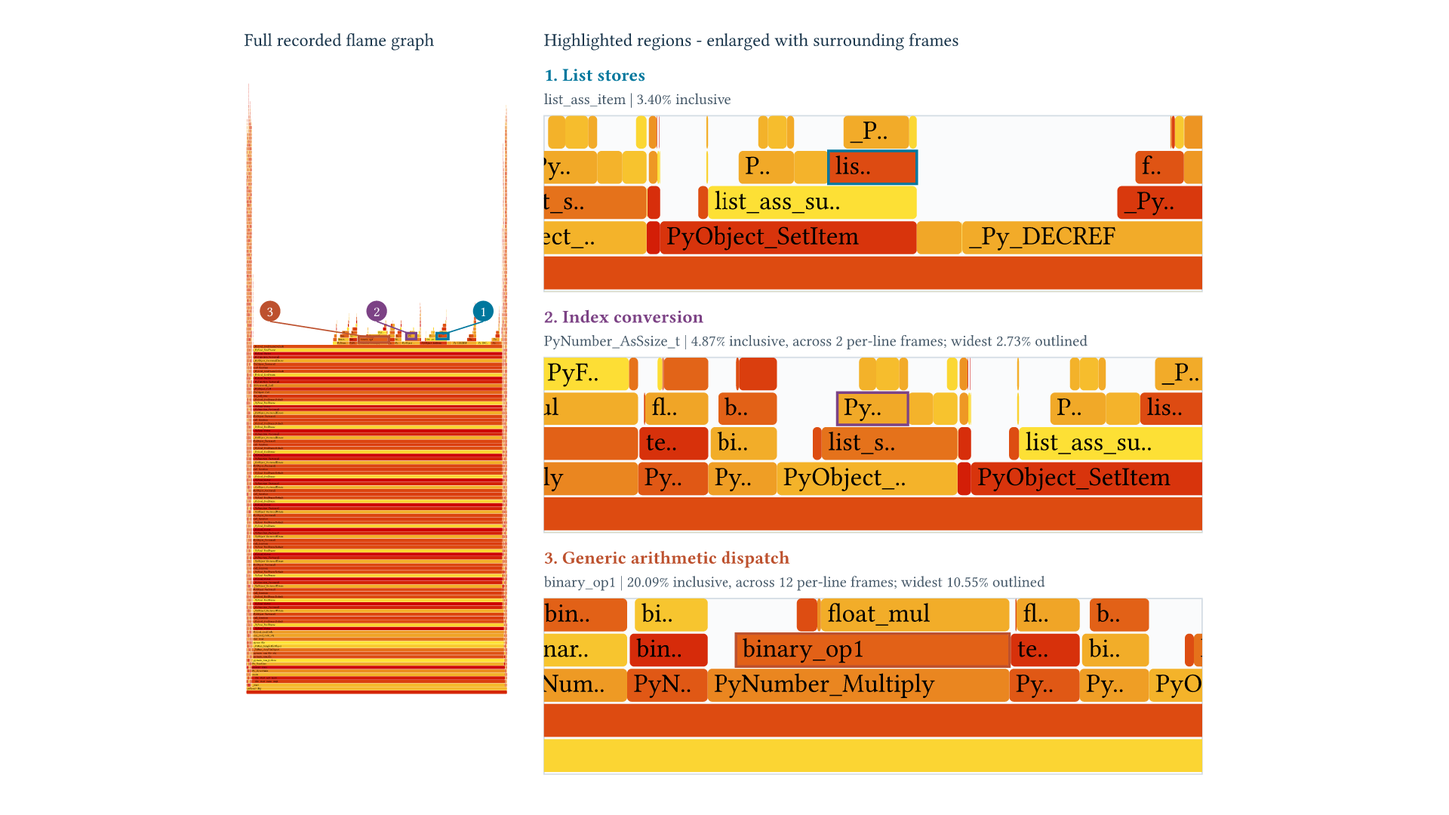
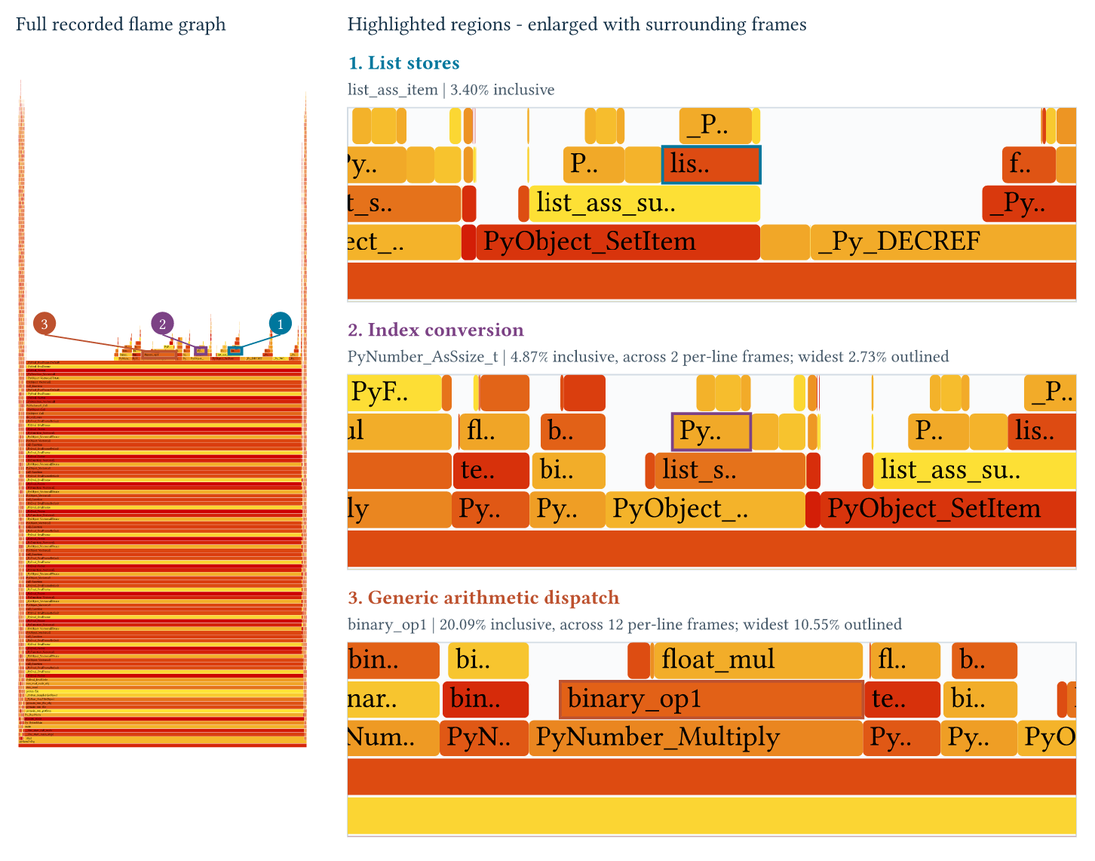
presentation: batch 1 reviewed; figures re-rendered without padding, flame-graph slide editions (overview + headline panel), 00e master fix (26 pt two-line titles, full-width body), correction prompts for S02-S04
Claude-Session: https://claude.ai/code/session_01P6Bd82YhqT2EwKyP63SPhX

diff --git a/tools/presentation/gen_prompts.py b/tools/presentation/gen_prompts.py
@@ -160,6 +160,25 @@ Done when: Slide → Apply layout lists the eight layouts, and each stage layout
 highlighted. Reply with one screenshot of the layout picker showing all eight, then the STATUS block
 for 00d with `deviations` listing the eight layout names as they appear.
 """,
+    "00e_title_size.md": f"""# Setup correction 00e: two-line titles, full-width figures
+
+Batch 1 showed that claim titles wrap to three lines at 32 pt on the 10 x 5.63 in page and leave
+too little room for the figure. Fix it once, on the layouts, so every slide inherits it.
+
+1. View → Theme builder. On EACH of the five "Title and body · <stage>" layouts and on the
+   Section header layout: set the title placeholder to 26 pt, left-aligned, dark grey #222222,
+   box from y = 0.25 in to y = 1.35 in (two lines of 26 pt fit; a third must not be needed).
+   Turn OFF autofit/shrink on the title box (Format options → Text fitting → Do not autofit).
+2. On the same layouts: the body placeholder spans x = 0.4 in to 9.6 in and y = 1.5 in to 5.0 in.
+   The footer tracker stays where it is (bottom 0.3 in); the slide number stays bottom-right.
+3. Close the theme builder. Check slides 2 to 5: their titles must now be at most two lines. If any
+   title still wraps to three lines, report it under deviations with the slide number; do not
+   edit the title text.
+
+Done when: the six layouts have the 26 pt two-line title box and the 9.2 x 3.5 in body box, and
+slides 2 to 5 show two-line titles. Reply with a screenshot of slide 5 and the STATUS block for 00e,
+listing under deviations any slide whose title still needs three lines.
+""",
     "00c_images.md": f"""# Setup 3 of 4: images
 
 The figures live on this laptop at:
@@ -214,8 +233,10 @@ Done when: title and the five lines match exactly and nothing overflows. Reply w
 then the STATUS block for {s.id} (expected: position 1, body title-lines {len(lines)}, tracker none).
 """
     if visual.startswith("assets/"):
-        body = (f"Body: Insert → Image → Upload from computer → `{ASSETS_WIN}\\{visual.split('/', 1)[1]}`.\n"
-                "Fit it inside the body box, keep aspect ratio, centre it. No caption, no border.")
+        body = (f"Body: insert the image `{ASSETS_WIN}\\{visual.split('/', 1)[1]}` with your direct upload tool.\n"
+                "Size it to fill the body box: width 9.2 in, or height 3.5 in if that binds first, keeping the\n"
+                "aspect ratio; place it at x = 0.4 in, y = 1.5 in and centre it horizontally in the body box.\n"
+                "It must not overlap the title or the footer tracker. No caption, no border, no crop.")
     elif visual == "table" and s.table:
         body = ("Body: insert this table exactly (Insert → Table), header row bold with #1F4E79 fill and "
                 "white text, body rows 16 pt, columns auto-fit, no other formatting:\n\n" + s.table)
@@ -254,14 +275,44 @@ notes_set yes, tracker {stage} via layout).
 """
 
 
+def render_fix(s: Slide, pos: int) -> str:
+    visual = s.fields.get("visual", "")
+    fname = visual.split("/", 1)[1] if visual.startswith("assets/") else ""
+    return f"""# Correction for slide {s.id} (deck slide {pos})
+
+Go to slide {pos}. Its title and speaker notes are correct; do not touch them. The figure must be
+replaced and resized after the 00e layout change.
+
+1. Delete the existing image on the slide.
+2. Insert `{ASSETS_WIN}\\{fname}` with your direct upload tool (it is a NEW file, re-upload it).
+3. Size it to fill the body box: width 9.2 in, or height 3.5 in if that binds first, keeping the
+   aspect ratio; place it at x = 0.4 in, y = 1.5 in and centre it horizontally in the body box.
+   It must not overlap the title or the footer tracker. No crop, no border.
+
+Done when: the new figure fills the body box width (or height) and nothing overlaps. Reply with a
+screenshot of the slide in edit view, then the STATUS block for {s.id} (expected: position {pos},
+body image {fname}, notes_set yes, tracker {s.fields.get('stage', '')} via layout).
+"""
+
+
 def main() -> int:
     slides = parse(PRES / "deck.md")
+    if "--fix" in sys.argv:
+        ids = sys.argv[sys.argv.index("--fix") + 1].split(",")
+        main_ids = [s.id for s in slides if not s.is_backup]
+        (OUT / "fix").mkdir(parents=True, exist_ok=True)
+        for s in slides:
+            if s.id in ids:
+                (OUT / "fix" / f"fix_{s.id}.md").write_text(render_fix(s, main_ids.index(s.id) + 1), encoding="utf-8")
+        print(f"wrote {len(ids)} correction prompts to {OUT.relative_to(ROOT)}/fix")
+        return 0
     if not slides:
         print("no slides in deck.md")
         return 1
     if OUT.exists():
-        shutil.rmtree(OUT)
-    OUT.mkdir(parents=True)
+        for f in OUT.glob("*.md"):
+            f.unlink()
+    OUT.mkdir(parents=True, exist_ok=True)
     (OUT / "README_AGENT.md").write_text(BRIEFING, encoding="utf-8")
     (OUT / "RB_export.md").write_text(READBACK, encoding="utf-8")
     for name, text in SETUP.items():

diff --git a/tools/presentation/make_assets.py b/tools/presentation/make_assets.py
@@ -4,7 +4,7 @@
   make_assets.py            # SVG figures -> PNG (typst), two typst-drawn diagrams -> PNG
   make_assets.py clip [--from-log]   # record `make -C hw/pyflate_accel sim` (or reuse the log) -> chain_cosim.gif
 
-Every PNG is 1920x1080 on a white page with the figure fitted inside; nothing is redrawn,
+Every figure PNG is rendered at its natural aspect ratio, 12 in wide at 120 ppi (1440 px), with no padding;
 so a slide shows exactly the figure the report shows. Needs: typst, Pillow (GIF). The clip needs the HW toolchain (source hw/env.sh).
 """
 from __future__ import annotations
@@ -36,14 +36,32 @@ SVGS = {
     "mtf_block_diagram.png": "hw/mtf_cam/docs/block_diagram.svg",
 }
 
+# Slide editions of the flame-graph prints: the report figure stacks three enlarged panels, which
+# is unreadable in a 3.5 in slide body. The slide edition keeps the overview at left and shows ONE
+# panel (the headline hotspot) large at right; the other panels stay in the report.
+FLAME_SLIDE = {
+    "print_nbody_stock_slide.png": ("report/fig/print_nbody_stock.svg", 0),
+    "print_nbody_opt_slide.png": ("report/fig/print_nbody_opt.svg", 0),
+    "print_pyflate_stock_slide.png": ("report/fig/print_pyflate_stock.svg", 0),
+    "print_pyflate_opt_slide.png": ("report/fig/print_pyflate_opt.svg", 0),
+}
+FLAME_TYP = """#set page(width: auto, height: auto, margin: 0.05in, fill: white)
+#stack(dir: ltr, spacing: 0.3in,
+  image("overview.svg", width: {ow}),
+  image("panel.svg", width: {pw}),
+)
+"""
+
 # Diagrams drawn in typst (no network needed): presentation/src/<name>.typ -> assets/<name>.png
 TYPST_SRC = {
     "hw_flow.png": "presentation/src/hw_flow.typ",
     "grape_uarch.png": "presentation/src/grape_uarch.typ",
 }
 
-PAGE = '#set page(width: 16in, height: 9in, margin: 0.25in, fill: white)\n' \
-       '#align(center + horizon)[#image("{name}", width: 100%, height: 100%, fit: "contain")]\n'
+# Natural aspect ratio, no 16:9 padding: the slide agent fits the image to the body box, so any
+# white margin baked into the PNG only makes the figure smaller on the slide.
+PAGE = '#set page(width: auto, height: auto, margin: 0.05in, fill: white)\n' \
+       '#image("{name}", width: 12in)\n'
 
 
 def typst_png(svg: Path, png: Path) -> None:
@@ -56,11 +74,43 @@ def typst_png(svg: Path, png: Path) -> None:
         shutil.copy(d / "fig.png", png)
 
 
+def svg_crop(text: str, x: float, y: float, w: float, h: float) -> str:
+    """Return the SVG with its root viewBox/width/height set to the given region."""
+    return re.sub(r'<svg([^>]*?) width="[\d.]+" height="[\d.]+" viewBox="[^"]*"',
+                  lambda m: f'<svg{m.group(1)} width="{w:.1f}" height="{h:.1f}" viewBox="{x:.1f} {y:.1f} {w:.1f} {h:.1f}"',
+                  text, count=1)
+
+
+def flame_slide(svg: Path, panel: int, png: Path) -> None:
+    text = svg.read_text(encoding="utf-8")
+    ov_h = float(re.search(r'<svg x="8" y="38" width="205" height="([\d.]+)"', text).group(1))
+    panels = re.findall(r'<rect x="([\d.]+)" y="([\d.]+)" width="([\d.]+)" height="([\d.]+)" fill="#fafbfc"', text)
+    labels = re.findall(r'<text x="240" y="(\d+)" font-family="sans-serif" font-size="14" font-weight="bold"', text)
+    px, py, pw, ph = (float(v) for v in panels[panel])
+    ly = float(labels[panel])
+    # panel region: from just above its label line to the panel's bottom edge
+    cx, cy, cw, ch = 236.0, ly - 14.0, pw + 12.0, (py + ph + 3.0) - (ly - 14.0)
+    ox, oy, ow, oh = 0.0, 0.0, 228.0, 38.0 + ov_h + 4.0
+    panel_w_in = 6.6                                  # 12 px Verdana -> about 11 pt on a 9.2 in body
+    panel_h_in = ch * panel_w_in / cw
+    ov_w_in = min(2.6, panel_h_in * ow / oh)          # overview no wider than 2.6 in, no taller than the panel
+    with tempfile.TemporaryDirectory() as td:
+        d = Path(td)
+        (d / "overview.svg").write_text(svg_crop(text, ox, oy, ow, oh), encoding="utf-8")
+        (d / "panel.svg").write_text(svg_crop(text, cx, cy, cw, ch), encoding="utf-8")
+        (d / "fig.typ").write_text(FLAME_TYP.format(ow=f"{ov_w_in:.3f}in", pw=f"{panel_w_in:.3f}in"), encoding="utf-8")
+        subprocess.run(["typst", "compile", "--format", "png", "--ppi", "150", "fig.typ", "fig.png"], cwd=d, check=True)
+        shutil.copy(d / "fig.png", png)
+
+
 def build_figures() -> None:
     OUT.mkdir(parents=True, exist_ok=True)
     for png, rel in SVGS.items():
         typst_png(ROOT / rel, OUT / png)
         print(f"  {png:28s} <- {rel}")
+    for png, (rel, panel) in FLAME_SLIDE.items():
+        flame_slide(ROOT / rel, panel, OUT / png)
+        print(f"  {png:28s} <- {rel} panel {panel + 1} (slide edition)")
     for png, rel in TYPST_SRC.items():
         subprocess.run(["typst", "compile", "--format", "png", "--ppi", "120", "--root", str(ROOT),
                         str(ROOT / rel), str(OUT / png)], check=True)

diff --git a/presentation/deck.md b/presentation/deck.md
@@ -86,7 +86,7 @@ sources:
 - status: DRAFT
 - stage: Profile
 - seconds: 60
-- visual: assets/print_nbody_stock.png
+- visual: assets/print_nbody_stock_slide.png
 
 notes:
 Two profilers, two views. py-spy on release CPython puts 97.7% of 310 samples in advance(); everything else is start-up and imports. perf at 999 Hz on the debug build shows what the interpreter does inside it: one tower under _PyEval_EvalFrameDefault at 99.31% inclusive, with binary_op1, the generic arithmetic dispatch, at 20.07%, float object handling at 16.25% of self time and list access and index conversion at 11.26%. There is no second hotspot. The list traffic is the part pure Python can remove: the per-pair unpacking and the read-modify-write of each velocity list. The float boxing it cannot remove, because every operation still allocates a Python float. Debug-build percentages locate the costs; release-build timing establishes the benefit.
@@ -104,7 +104,7 @@ sources:
 - status: DRAFT
 - stage: Optimize
 - seconds: 60
-- visual: assets/print_nbody_opt.png
+- visual: assets/print_nbody_opt_slide.png
 
 notes:
 At import time we emit an advance() with the pair loop unrolled, coordinates in locals and masses as literals; state is loaded before the step loop and written back afterwards, so energy still observes the original body objects. The arithmetic is untouched: mag = dt * (dsq ** -1.5) in the same order, so final state and energy compare exactly equal after 20,000 steps, not merely within a tolerance. Under pyperformance the run goes from 231.20 ± 7.85 to 143.13 ± 1.56 ms, 1.62x, 38.1% less time; the 88.1 ms reduction is about 70 times the clustered standard error. The optimized profile confirms the mechanism: list access and index conversion fall from 11.26% to 0.06% of self time, float handling does not fall, and advance() still holds 91.4% of 210 samples. That residue is what the native tier removes.
@@ -418,7 +418,7 @@ sources:
 - status: DRAFT
 - stage: Profile
 - seconds: 60
-- visual: assets/print_pyflate_stock.png
+- visual: assets/print_pyflate_stock_slide.png
 
 notes:
 Two profilers answer two questions. perf on the debug build says the interpreter sits in _PyEval_EvalFrameDefault at 99.50% inclusive, but it cannot name a Python function. py-spy on release CPython can, from 372 samples: find_next_symbol, the Huffman matcher, is 40.86% inclusive; move_to_front 13.44%; the bit-reader functions snoopbits, readbits and _mask are 9.41%, 9.95% and 5.91% of self time, together about a quarter; bwt_reverse is 14.52% inclusive. The surprise is that the matcher visits only 5.0 entries on average out of 258, so a lookup table cannot be the whole answer. The C-frame view explains the rest: a quarter of the time allocates and frees objects, a per-byte int and a list slice per symbol, and 9.45% is call machinery. These are sparse profiles: a 1% cell is one to four samples.
@@ -476,7 +476,7 @@ sources:
 - status: DRAFT
 - stage: Optimize
 - seconds: 90
-- visual: assets/print_pyflate_opt.png
+- visual: assets/print_pyflate_opt_slide.png
 
 notes:
 After the Python work the profile changes shape. From 122 samples, _decode_symbols_python, the loop that replaced the matcher, is 32.79% self; inverse BWT is 38.52% inclusive and rle4_expand 5.74%. The Rust/PyO3 BlockDecoder takes that symbol loop in one call per block; headers, inverse BWT, RLE4 and MD5 stay in Python. Under direct pyperf that is 283.88 ± 3.34 to 170.01 ± 2.30 ms, 1.67x; against the original, 6.61x and 84.9% less time. The kernel itself takes 3.304 ms per decode where the Python loop took about 117 ms. What remains is inverse BWT: 137.7 ms for the whole transform, about 80% of the remaining time; the traversal alone is 47.8 ms, never add the two. Caveat: a 32.79% share would cap the gain at 1.49x, below the measured 1.67x, so 122 samples locate work but do not calibrate Amdahl.

diff --git a/presentation/deck_parts/sw.md b/presentation/deck_parts/sw.md
@@ -62,7 +62,7 @@ sources:
 - status: DRAFT
 - stage: Profile
 - seconds: 60
-- visual: assets/print_nbody_stock.png
+- visual: assets/print_nbody_stock_slide.png
 
 notes:
 Two profilers, two views. py-spy on release CPython puts 97.7% of 310 samples in advance(); everything else is start-up and imports. perf at 999 Hz on the debug build shows what the interpreter does inside it: one tower under _PyEval_EvalFrameDefault at 99.31% inclusive, with binary_op1, the generic arithmetic dispatch, at 20.07%, float object handling at 16.25% of self time and list access and index conversion at 11.26%. There is no second hotspot. The list traffic is the part pure Python can remove: the per-pair unpacking and the read-modify-write of each velocity list. The float boxing it cannot remove, because every operation still allocates a Python float. Debug-build percentages locate the costs; release-build timing establishes the benefit.
@@ -80,7 +80,7 @@ sources:
 - status: DRAFT
 - stage: Optimize
 - seconds: 60
-- visual: assets/print_nbody_opt.png
+- visual: assets/print_nbody_opt_slide.png
 
 notes:
 At import time we emit an advance() with the pair loop unrolled, coordinates in locals and masses as literals; state is loaded before the step loop and written back afterwards, so energy still observes the original body objects. The arithmetic is untouched: mag = dt * (dsq ** -1.5) in the same order, so final state and energy compare exactly equal after 20,000 steps, not merely within a tolerance. Under pyperformance the run goes from 231.20 ± 7.85 to 143.13 ± 1.56 ms, 1.62x, 38.1% less time; the 88.1 ms reduction is about 70 times the clustered standard error. The optimized profile confirms the mechanism: list access and index conversion fall from 11.26% to 0.06% of self time, float handling does not fall, and advance() still holds 91.4% of 210 samples. That residue is what the native tier removes.
@@ -197,7 +197,7 @@ sources:
 - status: DRAFT
 - stage: Profile
 - seconds: 60
-- visual: assets/print_pyflate_stock.png
+- visual: assets/print_pyflate_stock_slide.png
 
 notes:
 Two profilers answer two questions. perf on the debug build says the interpreter sits in _PyEval_EvalFrameDefault at 99.50% inclusive, but it cannot name a Python function. py-spy on release CPython can, from 372 samples: find_next_symbol, the Huffman matcher, is 40.86% inclusive; move_to_front 13.44%; the bit-reader functions snoopbits, readbits and _mask are 9.41%, 9.95% and 5.91% of self time, together about a quarter; bwt_reverse is 14.52% inclusive. The surprise is that the matcher visits only 5.0 entries on average out of 258, so a lookup table cannot be the whole answer. The C-frame view explains the rest: a quarter of the time allocates and frees objects, a per-byte int and a list slice per symbol, and 9.45% is call machinery. These are sparse profiles: a 1% cell is one to four samples.
@@ -255,7 +255,7 @@ sources:
 - status: DRAFT
 - stage: Optimize
 - seconds: 90
-- visual: assets/print_pyflate_opt.png
+- visual: assets/print_pyflate_opt_slide.png
 
 notes:
 After the Python work the profile changes shape. From 122 samples, _decode_symbols_python, the loop that replaced the matcher, is 32.79% self; inverse BWT is 38.52% inclusive and rle4_expand 5.74%. The Rust/PyO3 BlockDecoder takes that symbol loop in one call per block; headers, inverse BWT, RLE4 and MD5 stay in Python. Under direct pyperf that is 283.88 ± 3.34 to 170.01 ± 2.30 ms, 1.67x; against the original, 6.61x and 84.9% less time. The kernel itself takes 3.304 ms per decode where the Python loop took about 117 ms. What remains is inverse BWT: 137.7 ms for the whole transform, about 80% of the remaining time; the traversal alone is 47.8 ms, never add the two. Caveat: a 32.79% share would cap the gain at 1.49x, below the measured 1.67x, so 122 samples locate work but do not calibrate Amdahl.

diff --git a/presentation/verify/README.md b/presentation/verify/README.md
@@ -30,3 +30,9 @@ Screenshots are saved here as `<id>.png`/`.jpg` (git-ignored); STATUS blocks as 
 | 00b | done; fonts reported Roboto/Roboto | pptx: tracker text on TITLE_AND_BODY and SECTION_HEADER layouts, Roboto on both, slide-number placeholder present | blank slide shows grey tracker + slide number 1 | 2026-09-26 | readback RB: agent blocked on Chrome's Save dialog, files moved by hand from Downloads; procedure updated |
 | 00c | first attempt blocked (WSL path); done after the Windows mirror: 16 files, none missing | n/a | n/a | 2026-09-26 | assets now served from C:\Users\Kogan\HWSW_presentation |
 | 00d | done-with-deviation: eight layouts named exactly as specified; slide 1 back to Title slide (wanted) | pending: highlighted word per stage layout to be confirmed from the batch-1 pptx | not saved to verify | 2026-09-26 | layout fix would propagate to all slides, so batch 1 not blocked |
+| S00 | done-with-deviation (subtitle box enlarged; accidental Gemini chip click cancelled) | no export yet (RB blocked: extension disconnected) | title + 5 lines + notes correct; title slide layout | 2026-09-28 | accepted |
+| S01 | done-with-deviation (3-line title; table font forced to Roboto; autocorrect off) | no export yet | table 4x3 correct, tracker Analyze | 2026-09-28 | accepted; 3-line title fixed by 00e |
+| S02 | done-with-deviation (image 5.70 x 3.20 in) | no export yet | figure far too small: padded 16:9 PNG shrunk to half width | 2026-09-28 | REDO via fix_S02 after 00e; asset re-rendered without padding |
+| S03 | done-with-deviation (image 5.70 x 3.20 in) | no export yet | three stacked panels unreadable | 2026-09-28 | REDO via fix_S03 with print_nbody_stock_slide.png (overview + panel 1) |
+| S04 | done-with-deviation (3-line title; image 5.34 x 3.00 in) | no export yet | figure unreadable | 2026-09-28 | REDO via fix_S04 with print_nbody_opt_slide.png |
+| RB-1 | blocked: Chrome extension not connected | — | — | 2026-09-28 | re-run after the fixes |

diff --git a/presentation/prompts/S17_after-optimization-inverse-bwt-is-about-80-of-wh.md b/presentation/prompts/S17_after-optimization-inverse-bwt-is-about-80-of-wh.md
@@ -6,8 +6,10 @@ Title (exact text, do not shorten or rephrase):
 
     After optimization inverse BWT is about 80% of what remains; a Rust kernel for symbol decode reaches 170.01 ms, 6.61x end to end
 
-Body: Insert → Image → Upload from computer → `C:\Users\Kogan\HWSW_presentation\assets\print_pyflate_opt.png`.
-Fit it inside the body box, keep aspect ratio, centre it. No caption, no border.
+Body: insert the image `C:\Users\Kogan\HWSW_presentation\assets\print_pyflate_opt_slide.png` with your direct upload tool.
+Size it to fill the body box: width 9.2 in, or height 3.5 in if that binds first, keeping the
+aspect ratio; place it at x = 0.4 in, y = 1.5 in and centre it horizontally in the body box.
+It must not overlap the title or the footer tracker. No caption, no border, no crop.
 
 Do not touch the footer tracker: the layout already highlights "Optimize".
 
@@ -17,5 +19,5 @@ Speaker notes (exact text, paste into the notes pane):
 
 Done when: the title matches exactly, the body content is fully visible without overflow or
 clipping, the slide uses the "Title and body · Optimize" layout, and the notes are saved. Reply with a screenshot of
-the slide in edit view, then the STATUS block for S17 (expected: position 18, body image print_pyflate_opt.png,
+the slide in edit view, then the STATUS block for S17 (expected: position 18, body image print_pyflate_opt_slide.png,
 notes_set yes, tracker Optimize via layout).

diff --git a/presentation/prompts/S15_40-86-of-the-original-samples-are-huffman-symbol.md b/presentation/prompts/S15_40-86-of-the-original-samples-are-huffman-symbol.md
@@ -6,8 +6,10 @@ Title (exact text, do not shorten or rephrase):
 
     40.86% of the original samples are Huffman symbol decode, 13.44% move-to-front, and about a quarter is the bit reader
 
-Body: Insert → Image → Upload from computer → `C:\Users\Kogan\HWSW_presentation\assets\print_pyflate_stock.png`.
-Fit it inside the body box, keep aspect ratio, centre it. No caption, no border.
+Body: insert the image `C:\Users\Kogan\HWSW_presentation\assets\print_pyflate_stock_slide.png` with your direct upload tool.
+Size it to fill the body box: width 9.2 in, or height 3.5 in if that binds first, keeping the
+aspect ratio; place it at x = 0.4 in, y = 1.5 in and centre it horizontally in the body box.
+It must not overlap the title or the footer tracker. No caption, no border, no crop.
 
 Do not touch the footer tracker: the layout already highlights "Profile".
 
@@ -17,5 +19,5 @@ Speaker notes (exact text, paste into the notes pane):
 
 Done when: the title matches exactly, the body content is fully visible without overflow or
 clipping, the slide uses the "Title and body · Profile" layout, and the notes are saved. Reply with a screenshot of
-the slide in edit view, then the STATUS block for S15 (expected: position 16, body image print_pyflate_stock.png,
+the slide in edit view, then the STATUS block for S15 (expected: position 16, body image print_pyflate_stock_slide.png,
 notes_set yes, tracker Profile via layout).

diff --git a/presentation/prompts/S04_specializing-advance-to-the-fixed-pair-list-remo.md b/presentation/prompts/S04_specializing-advance-to-the-fixed-pair-list-remo.md
@@ -6,8 +6,10 @@ Title (exact text, do not shorten or rephrase):
 
     Specializing advance() to the fixed pair list removes the list traffic: 231.20 → 143.13 ms, 1.62x, bit-identical state
 
-Body: Insert → Image → Upload from computer → `C:\Users\Kogan\HWSW_presentation\assets\print_nbody_opt.png`.
-Fit it inside the body box, keep aspect ratio, centre it. No caption, no border.
+Body: insert the image `C:\Users\Kogan\HWSW_presentation\assets\print_nbody_opt_slide.png` with your direct upload tool.
+Size it to fill the body box: width 9.2 in, or height 3.5 in if that binds first, keeping the
+aspect ratio; place it at x = 0.4 in, y = 1.5 in and centre it horizontally in the body box.
+It must not overlap the title or the footer tracker. No caption, no border, no crop.
 
 Do not touch the footer tracker: the layout already highlights "Optimize".
 
@@ -17,5 +19,5 @@ Speaker notes (exact text, paste into the notes pane):
 
 Done when: the title matches exactly, the body content is fully visible without overflow or
 clipping, the slide uses the "Title and body · Optimize" layout, and the notes are saved. Reply with a screenshot of
-the slide in edit view, then the STATUS block for S04 (expected: position 5, body image print_nbody_opt.png,
+the slide in edit view, then the STATUS block for S04 (expected: position 5, body image print_nbody_opt_slide.png,
 notes_set yes, tracker Optimize via layout).

diff --git a/presentation/prompts/S03_97-7-of-samples-sit-in-advance-list-indexing-and.md b/presentation/prompts/S03_97-7-of-samples-sit-in-advance-list-indexing-and.md
@@ -6,8 +6,10 @@ Title (exact text, do not shorten or rephrase):
 
     97.7% of samples sit in advance(); list indexing and float boxing dominate the C frames
 
-Body: Insert → Image → Upload from computer → `C:\Users\Kogan\HWSW_presentation\assets\print_nbody_stock.png`.
-Fit it inside the body box, keep aspect ratio, centre it. No caption, no border.
+Body: insert the image `C:\Users\Kogan\HWSW_presentation\assets\print_nbody_stock_slide.png` with your direct upload tool.
+Size it to fill the body box: width 9.2 in, or height 3.5 in if that binds first, keeping the
+aspect ratio; place it at x = 0.4 in, y = 1.5 in and centre it horizontally in the body box.
+It must not overlap the title or the footer tracker. No caption, no border, no crop.
 
 Do not touch the footer tracker: the layout already highlights "Profile".
 
@@ -17,5 +19,5 @@ Speaker notes (exact text, paste into the notes pane):
 
 Done when: the title matches exactly, the body content is fully visible without overflow or
 clipping, the slide uses the "Title and body · Profile" layout, and the notes are saved. Reply with a screenshot of
-the slide in edit view, then the STATUS block for S03 (expected: position 4, body image print_nbody_stock.png,
+the slide in edit view, then the STATUS block for S03 (expected: position 4, body image print_nbody_stock_slide.png,
 notes_set yes, tracker Profile via layout).

diff --git a/presentation/prompts/00e_title_size.md b/presentation/prompts/00e_title_size.md
@@ -1,0 +1,18 @@
+# Setup correction 00e: two-line titles, full-width figures
+
+Batch 1 showed that claim titles wrap to three lines at 32 pt on the 10 x 5.63 in page and leave
+too little room for the figure. Fix it once, on the layouts, so every slide inherits it.
+
+1. View → Theme builder. On EACH of the five "Title and body · <stage>" layouts and on the
+   Section header layout: set the title placeholder to 26 pt, left-aligned, dark grey #222222,
+   box from y = 0.25 in to y = 1.35 in (two lines of 26 pt fit; a third must not be needed).
+   Turn OFF autofit/shrink on the title box (Format options → Text fitting → Do not autofit).
+2. On the same layouts: the body placeholder spans x = 0.4 in to 9.6 in and y = 1.5 in to 5.0 in.
+   The footer tracker stays where it is (bottom 0.3 in); the slide number stays bottom-right.
+3. Close the theme builder. Check slides 2 to 5: their titles must now be at most two lines. If any
+   title still wraps to three lines, report it under deviations with the slide number; do not
+   edit the title text.
+
+Done when: the six layouts have the 26 pt two-line title box and the 9.2 x 3.5 in body box, and
+slides 2 to 5 show two-line titles. Reply with a screenshot of slide 5 and the STATUS block for 00e,
+listing under deviations any slide whose title still needs three lines.

diff --git a/presentation/prompts/00c_images.md b/presentation/prompts/00c_images.md
@@ -9,4 +9,4 @@ with the files yet except list the folder. Each slide prompt names the exact fil
 your direct file-upload tool.
 
 Done when: you can list the folder. Reply with the STATUS block for 00c with `deviations` listing the number of files you see and
-any of these names that are missing: chain_cosim.gif, decode_report.png, grape_block_diagram.png, grape_report.png, grape_uarch.png, huffman_block_diagram.png, huffman_tree.png, hw_flow.png, mtf_block_diagram.png, nbody_pairs.png, pair_dependency.png, print_nbody_opt.png, print_nbody_stock.png, print_pyflate_opt.png, print_pyflate_stock.png, pyflate_stages.png.
+any of these names that are missing: chain_cosim.gif, decode_report.png, grape_block_diagram.png, grape_report.png, grape_uarch.png, huffman_block_diagram.png, huffman_tree.png, hw_flow.png, mtf_block_diagram.png, nbody_pairs.png, pair_dependency.png, print_nbody_opt.png, print_nbody_opt_slide.png, print_nbody_stock.png, print_nbody_stock_slide.png, print_pyflate_opt.png, print_pyflate_opt_slide.png, print_pyflate_stock.png, print_pyflate_stock_slide.png, pyflate_stages.png.

diff --git a/presentation/prompts/fix/fix_S03.md b/presentation/prompts/fix/fix_S03.md
@@ -1,0 +1,14 @@
+# Correction for slide S03 (deck slide 4)
+
+Go to slide 4. Its title and speaker notes are correct; do not touch them. The figure must be
+replaced and resized after the 00e layout change.
+
+1. Delete the existing image on the slide.
+2. Insert `C:\Users\Kogan\HWSW_presentation\assets\print_nbody_stock_slide.png` with your direct upload tool (it is a NEW file, re-upload it).
+3. Size it to fill the body box: width 9.2 in, or height 3.5 in if that binds first, keeping the
+   aspect ratio; place it at x = 0.4 in, y = 1.5 in and centre it horizontally in the body box.
+   It must not overlap the title or the footer tracker. No crop, no border.
+
+Done when: the new figure fills the body box width (or height) and nothing overlaps. Reply with a
+screenshot of the slide in edit view, then the STATUS block for S03 (expected: position 4,
+body image print_nbody_stock_slide.png, notes_set yes, tracker Profile via layout).
